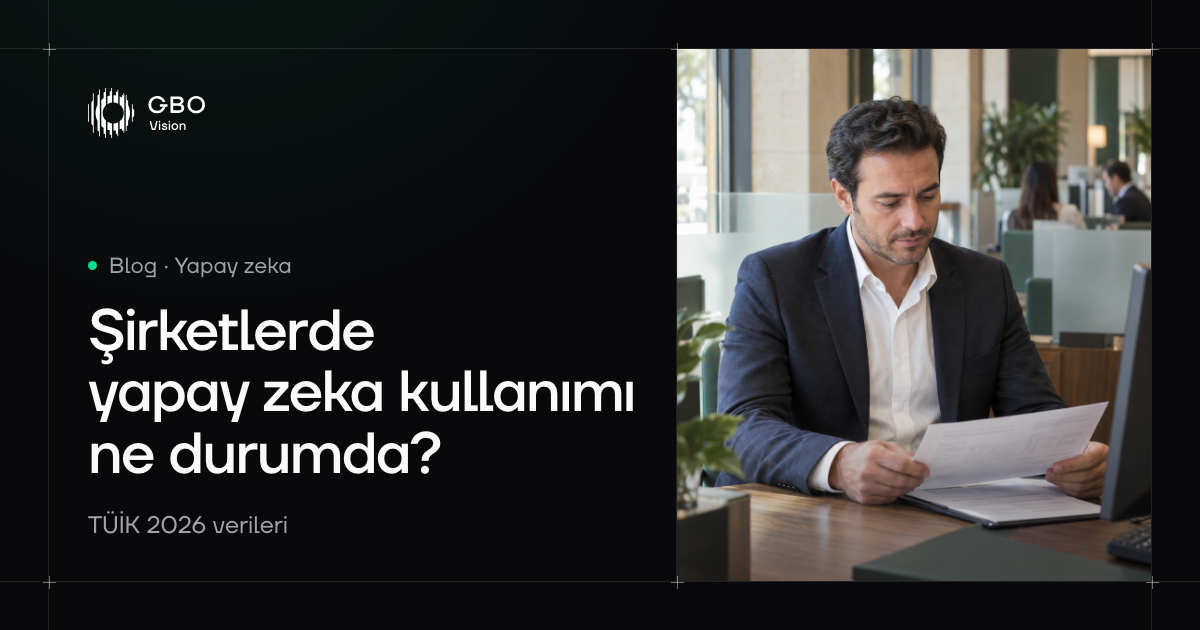
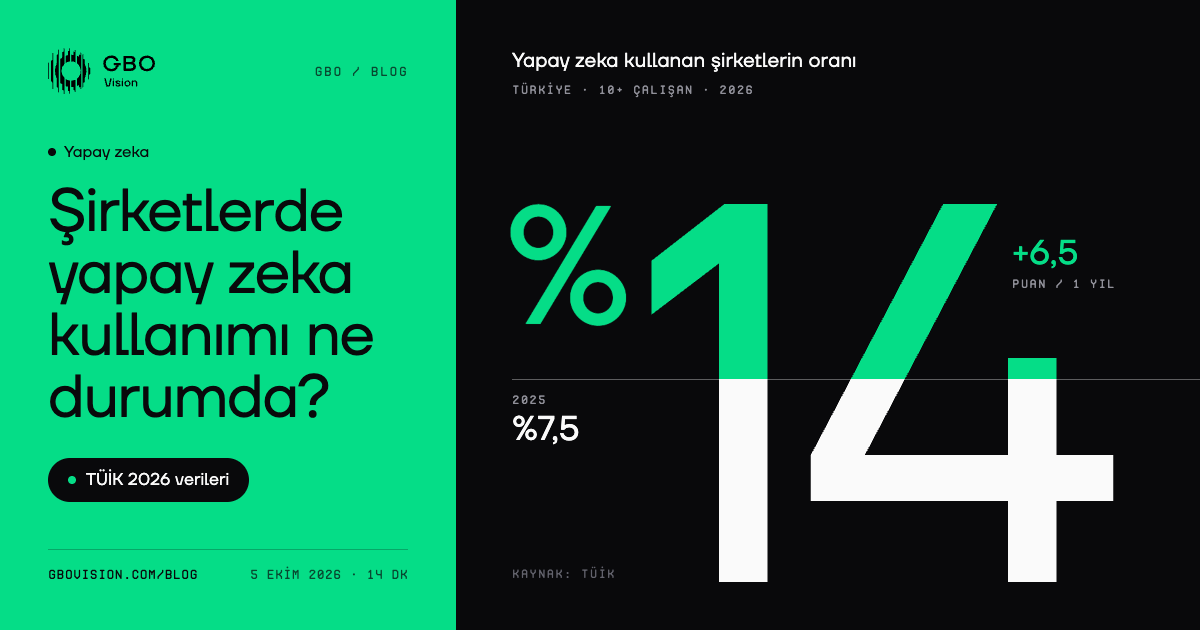
Use the Fountible card as the TÜİK article's share image
The article's OG card is now the "OG canvas" frame designed in Fountible.
render.mjs copies a hand-designed export ("file" in pages.json) instead of
rendering the template, so re-rendering every card keeps it.

diff --git a/scripts/og/README.md b/scripts/og/README.md
@@ -11,7 +11,7 @@ rendered from one HTML template with headless Chrome and committed as PNGs.
 | `render.mjs` | Renders entries to `public/og/<key>.png` and writes `src/data/og-images.json` |
 | `png.mjs` | Re-packs Chrome's PNG to stay under the 400 KB budget (Node's zlib only) |
 | `face-still.mjs` | Renders `assets/hero-face.png`, the home card's particle face |
-| `assets/` | Pictures that exist only for the cards (the face still) |
+| `assets/` | Pictures that exist only for the cards (the face still, cards designed in Fountible) |
 
 `src/data/og-images.json` maps each key to its file, `"home-tr": "/og/home-tr.png"`.
 `src/lib/og-images.ts` reads it; a key without a PNG falls back to `/og.png`.
@@ -121,6 +121,27 @@ one keeps a stray `mark: true`; that is harmless (only `atmos` reads it).
 
 Rendering one key rewrites the whole manifest from `pages.json`, keeping every
 entry whose PNG is on disk.
+
+## A card designed in Fountible
+
+A card can be designed by hand instead (the TÜİK article's is). Its entry names
+the export, and `render.mjs` copies it in and re-packs it rather than rendering
+the template, so re-rendering every card never replaces it:
+
+```json
+"blog-turkiyede-sirketlerin-yapay-zeka-kullanimi": {
+  "file": "scripts/og/assets/blog-turkiyede-sirketlerin-yapay-zeka-kullanimi.png",
+  "design": "https://app.fountible.com/file/3Tr3dkCjUrxy?node-id=Ln0ZCW30B0L2s-Z_jkDuU"
+}
+```
+
+1. Export the frame at exactly 1200 × 630, opaque, to `assets/<key>.png`.
+   `design` links the frame, for the next export.
+2. `node scripts/og/render.mjs <key>`: it refuses a file of any other size.
+3. Look at `public/og/<key>.png`, then commit it with the export and `pages.json`.
+
+To go back to the template, put the entry's `inherit`, `eyebrow`, `title`,
+`line` and `visual` back in place of `file` and `design`.
 
 ## The design
 
